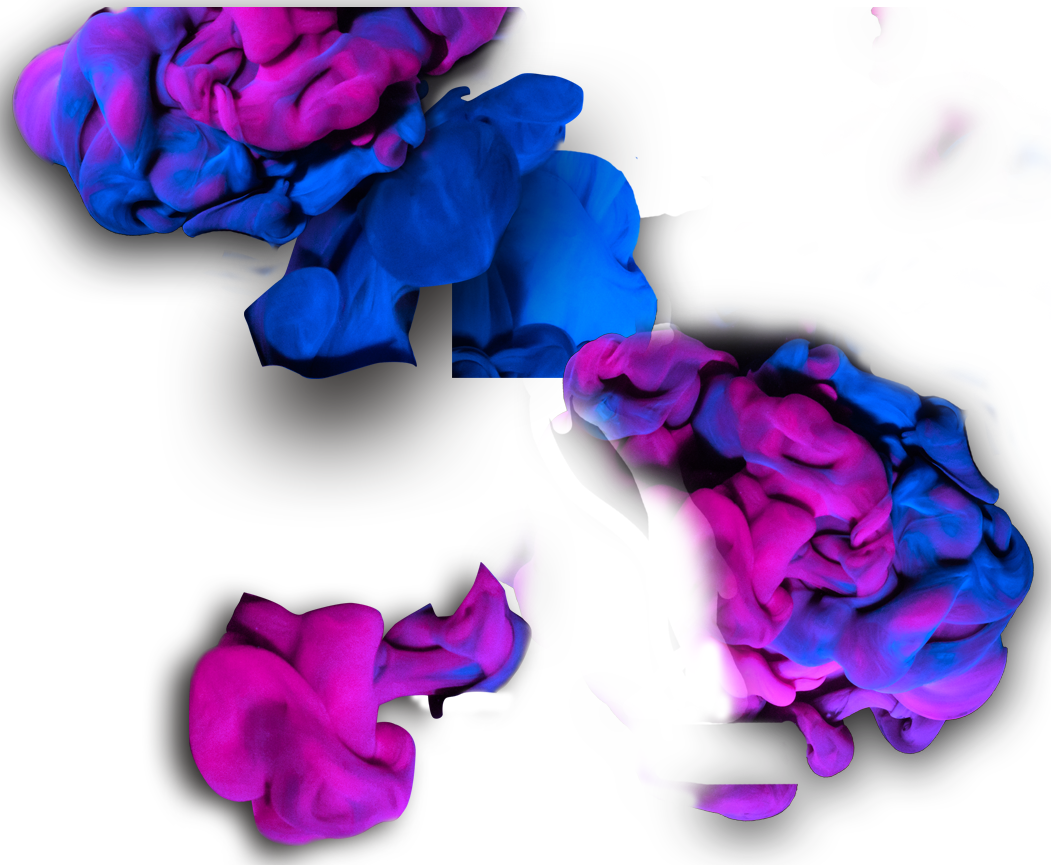
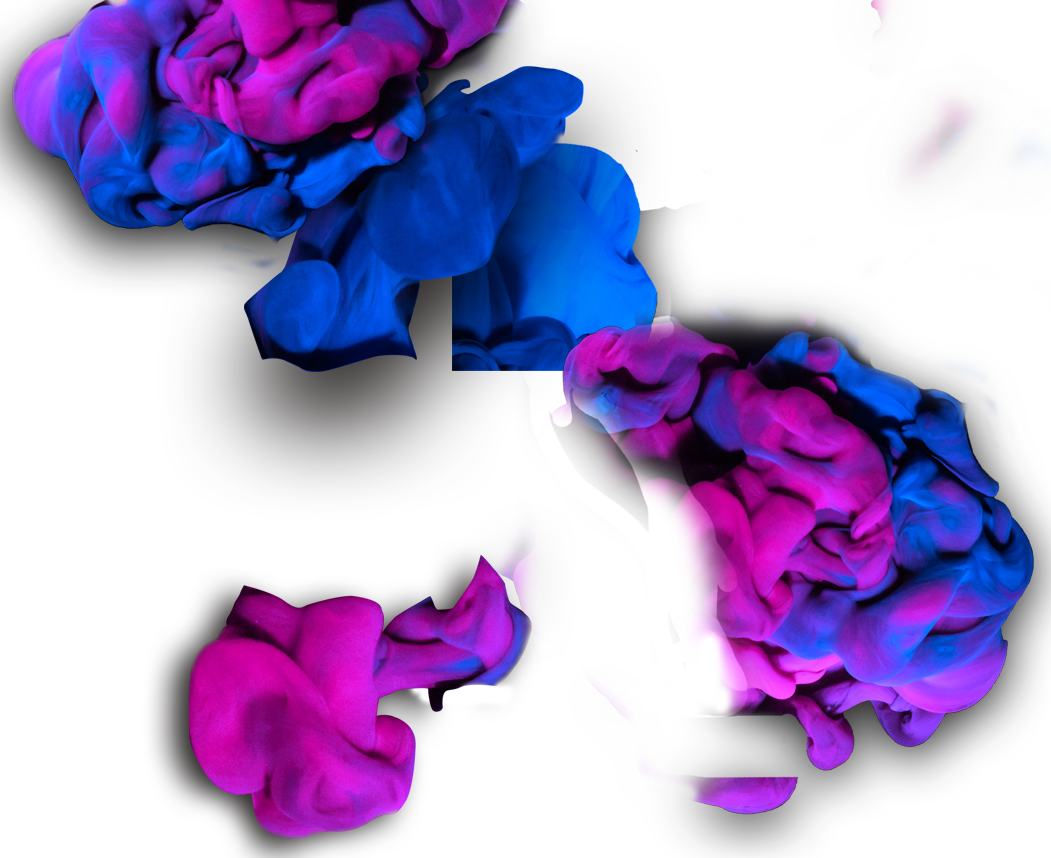
incremental work on booknow page

diff --git a/app/assets/stylesheets/booknow_landing_page.css.scss b/app/assets/stylesheets/booknow_landing_page.css.scss
@@ -329,7 +329,7 @@ p{font-size: 16px;line-height: 18px;color:#ffffff;font-family: 'FuturaStd-Light'
 .cloud{position: absolute;right: 13.2%;margin:0 auto;top:0px;}
 .cloud img{}
 .mobile{position: absolute;left: 42px;top: 12.6%;z-index: 1;}
-.cloud-block{position: absolute;right: -119.8px;top: -4px;z-index: 2;}
+.cloud-block{position: absolute;right: -119.8px;top: 0px;z-index: 2;}
 .video-block{position: absolute;bottom: 134px;left: 0px;right: 5px;margin: 0 auto;text-align: center;}
 .video-block a{padding: 25px 43px 25px 40px;color:#ffffff;background: #ec038c;font-size: 23.4px;line-height: 21px;display: inline-block;border-radius:5px;font-family: 'FuturaStd-Bold';font-weight: normal;letter-spacing: 0.6px;text-align: center;text-transform: uppercase;}
 .show-mob{display: none !important;}
@@ -468,6 +468,20 @@ p{font-size: 16px;line-height: 18px;color:#ffffff;font-family: 'FuturaStd-Light'
         appearance: none;
         -webkit-border-radius: 0; 
     }
+
+
+body.booknow {
+  .body-content {
+    padding-bottom: 0;
+  }
+
+  .business-in {
+    a.btn, a.btn:link, a.btn:visited, a.btn:hover, a.btn:active {
+      color: #FFF;
+    }
+  }
+}
+
 
 @media only screen and (max-width:1900px){
    
@@ -610,7 +624,7 @@ p{font-size: 16px;line-height: 18px;color:#ffffff;font-family: 'FuturaStd-Light'
     .genius span{font-size: 42px;}
     .video-block{bottom:50px;}
     .video-block a{padding: 18px 30px 18px 30px;font-size:20px;line-height: 22px;}
-    .video-block a i{font-size: 26px;line-height: 26px;}
+    .video-block a i{font-size: 26px;line-height: 26px; position: relative; top: 2px;}
      .winner-in{display:block !important; text-align:center;}
 	.winner-left p br{display:none;}
 	.winner-right{display:table; margin:0 auto; width:100%;}

diff --git a/app/assets/javascripts/components/SolaSearch/SolaSearch.js.jsx b/app/assets/javascripts/components/SolaSearch/SolaSearch.js.jsx
@@ -56,7 +56,7 @@ var SolaSearch = React.createClass({
 	*/
 
 	render: function () {
-		//console.log('render SolaSearch professionals', this.state.professionals);
+		console.log('render SolaSearch professionals', this.state.professionals);
 		
 		return (
 			<div className={"SolaSearch " + this.state.mode}>

diff --git a/app/assets/stylesheets/public_website/page_nav.css.scss b/app/assets/stylesheets/public_website/page_nav.css.scss
@@ -53,7 +53,7 @@
 		top: 0;
 		left: 0;
 		right: 0;
-		z-index: 2;
+		z-index: 3;
 		background: rgba(0,0,0,0.15);
 
 		li {

diff --git a/app/controllers/booknow_controller.rb b/app/controllers/booknow_controller.rb
@@ -6,7 +6,7 @@ class BooknowController < PublicWebsiteController
 	
 
 	def landing_page
-    render :layout => 'empty'
+    render :layout => 'public_website'
 	end
 
 	def search
@@ -18,7 +18,7 @@ class BooknowController < PublicWebsiteController
     -H 'api_key: #{ENV['GLOSS_GENIUS_API_KEY']}' \
     -H 'device_id: #{params[:fingerprint]}'`
 
-    p "#{results_response}"
+    #p "#{results_response}"
 
     begin
       @professionals = JSON.parse(results_response)
@@ -54,7 +54,7 @@ class BooknowController < PublicWebsiteController
   end
 
   def gloss_genius_search_query_string
-    query_string = "query=#{CGI.escape params[:query]}&latitude=#{params[:lat]}&longitude=#{params[:lng]}"
+    query_string = "query=#{CGI.escape params[:query]}&latitude=#{params[:lat]}&longitude=#{params[:lng]}&radius=50"
 
     if params[:location_id].present?
       query_string = query_string + "&org_location_id=#{params[:location_id]}"
